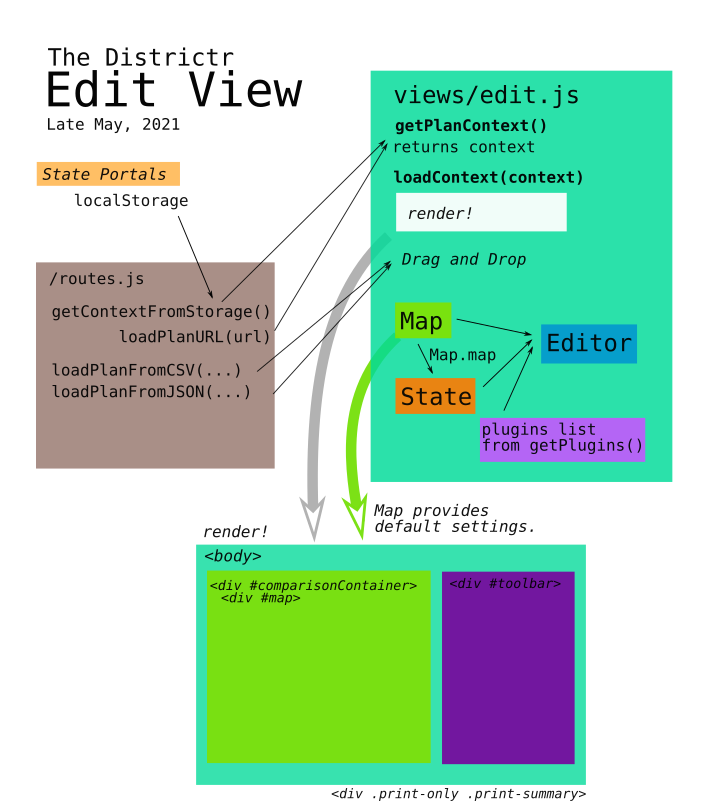
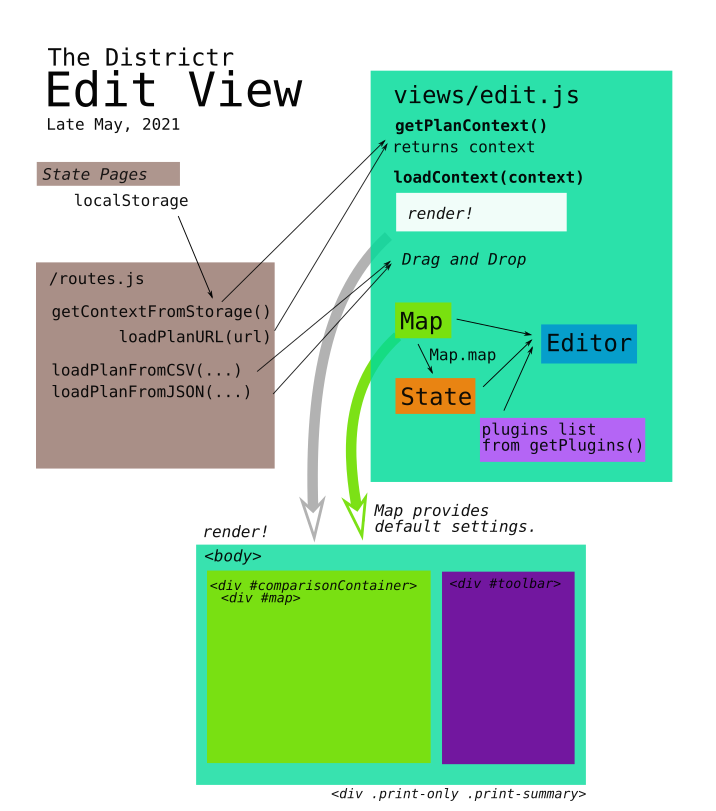
Makes changes recommended by mapmeld

Changed region(s): [[0.0307, 0.185, 0.2458, 0.2466]]

diff --git a/docs/07pages/districtrstatepages.md b/docs/07pages/districtrstatepages.md
@@ -1,4 +1,4 @@
-# Districtr State Portals
+# Districtr State Pages
 
 On the splash page, `index.html` users can use the US map rendered by
 the [`PlaceMap.js`] component to the many state pages districtr provides
@@ -6,11 +6,11 @@ as a portal for editing. Originally, MGGG only provided state
 information for those states where we had partners before rolling it out
 to all states in the nation. 
 
-This documentation covers portals that navigate to different states on
+This documentation covers pages that navigate to different states on
 the districtr website as opposed to custom portals for state commissions
 and other partners. 
 
-<img src="../pics/portalsbasics.png" width=75%>
+<img src="../pics/pagesbasics.png" width=75%>
 
 ## state.html
 
@@ -210,8 +210,8 @@ is given structure in the HTML. Maybe they should be placed closer together for
 clarity.
 
 [Return to Main](../README.md)
-- Previous: [The Index Landing Page](../07portals/index.md)
-- Next: [PlaceMap](../07portals/placemap.md)
+- Previous: [The Index Landing Page](../07pages/index.md)
+- Next: [PlaceMap](../07pages/placemap.md)
 
 
 [@jdeschler]: http://github.com/jdeschler
@@ -220,9 +220,9 @@ clarity.
 [@jenni-niels]: http://github.com/jenni-niels
 [@apizzimenti]: http://github.com/apizzimenti
 
-[`PlaceMap.js`]: ../07portals/placemap.md
+[`PlaceMap.js`]: ../07pages/placemap.md
 [`deploy/_redirects`]: ../09deployment/headersredirects.md
-[`stateLandingPage.js`]: ../07portals/districtrstateportals.md
+[`stateLandingPage.js`]: ../07pages/districtrstatepages.md
 
 [`src/views/stateLandingPage.js`]: ../../src/views/stateLandingPage.js
 [`/assets/data/landing_pages.json`]: ../../assets/data/landing_pages.json

diff --git a/docs/12team/contributions.md b/docs/12team/contributions.md
@@ -138,7 +138,7 @@ through February.
 Typically involved with the more research and Gerrychain side of the 
 MGGG laboratory, Anthony has returned to help in the Spring of 2021
 processing data for Wisconsin, Minnesota and the contribution of
-language for public-facing portals.
+language for public-facing custom portals.
 
 ### Lessons From the Demo
 
@@ -267,15 +267,15 @@ mongodb
 
 While JN, [@jenni-niels],  created the prototype local community page
 with landing page sections and content for Lowell, MA and Colorado. We
-would use their work during this time as the model for the default and
-custom portals we use today.
+would use their work during this time as the model for the default pages
+and custom portals we use today.
 
 ### Expanding Nationwide
 
 Throughout 2020, Nick worked on adding features and JN worked on
-modifying and updating state portals and pages. A rough timeline for
-the genesis of current features are as follows, with the knowledge that
-they are all being perfected over time.
+modifying and updating state pages. A rough timeline for the genesis of
+current features are as follows, with the knowledge that they are all
+being perfected over time.
 
 - January 2020
    - A legend for Demographic Overlays
@@ -332,7 +332,7 @@ assurance and testing.
 
 ### VRA
 
-Separate from their responsibilies creating state portals and assisting
+Separate from their responsibilies creating custom portals and assisting
 on the MGGG research side, [@jenni-niels] has been spearheading the
 ability to analyze districts using Voting Rights Act effectiveness. This
 began late December, 2020. To date, VRA is the first server function

diff --git a/docs/05landmarks/coi.md b/docs/05landmarks/coi.md
@@ -19,7 +19,7 @@ for both modes. The [`PopulationBalancePlugin`] and the
 
 [@maxhully] first built out a protype `Landmarks` feature in February of
 2019. By late April, the painting of communities of interest was
-achieved. It is thanks to [@jenni-niels] that state portals for marking
+achieved. It is thanks to [@jenni-niels] that state pages for marking
 communities of interest were generated later that year. They have
 maintained this page with [@mapmeld] through 2020 up to the present day.
 
@@ -154,7 +154,7 @@ draw overlapping communities.
 
 - The `PopBalancePlugin` and the `EvaluationPlugin` both have conditions
 on `community` but is not part of the plugins created in Community mode
-- Within State Portals, `onlyCommunityMode` used to exist for places
+- Within State Pages, `onlyCommunityMode` used to exist for places
 where we didn't have state-wide maps. This is now vestigial. 
 - While it's good to have `CommuntityBrush` extends `Brush`, `Brush`
 still has a few conditions that rest upon `community`, which are now
@@ -205,9 +205,9 @@ rarely and may not be needed.
 [`CoalitionPivotTable`]: ../06charts/datatable.md
 [`Subgroup`]: ../06charts/columnsetsparts.md
 
-[State Portal]: ../07portals/districtrstateportals.md
-[`PlacesList.js`]: ../07portals/placemap.md
-[`PlaceMap.js`]: ../07portals/placemap.md
+[State Portal]: ../07pages/districtrstatepages.md
+[`PlacesList.js`]: ../07pages/placemap.md
+[`PlaceMap.js`]: ../07pages/placemap.md
 
 [`routes.js`]: ../09deployment/routes.md
 [netlify lambda functions]: ../09deployment/mongolambdas.md

diff --git a/docs/10spatialabilities/placeexceptions.md b/docs/10spatialabilities/placeexceptions.md
@@ -11,7 +11,9 @@ mapbox-gl [`map`].
 - If the `borderId`, essentially `place`, is in Arizona, i.e., `yuma`,
 `nwaz`, `seaz`, `maricopa` and `phoenix`, a layer of Block Group is
 added.
-- If the `borderId` is `sacramento`, then a layer of Tracts are added. 
+- If the `borderId` is `sacramento`, then a layer of Tracts are added
+and is used to display block groups as a background to blocks in the
+editor. 
 
 In [`edit.js`], an extra function `getMapStyle(...)` is passed when
 creating the [`MapState`]. District maps are plotted in map style
@@ -72,15 +74,6 @@ not used anywhere for any place as the PythonAnywhere interface was
 rewritten later
 - A custom warning is shown in `ContiguitySection` for Ohio and 
 Wisconsin
-
-## Exceptions in Netlify Lambdas and the Server
-
-Certain states "are not included in PostGIS, according to
-planContiguity.js". Thus, in `planContiguity.js`, these exceptions are
-for...
-- states AK, CO, GA, HI, IA, MA, MD, MI, MN, MS, NC, NM, OH, OK,
-OR, PA, RI, TX, UT, VA, VT and WI
-- places Chicago, `ma_02` towns, and Providence, RI. 
 
 Any time PythonAnywhere is queried or CSV plans are saved or retrieved,
 an exception must be made from the default separator `,` when working

diff --git a/docs/11suggestions/clarity.md b/docs/11suggestions/clarity.md
@@ -148,7 +148,7 @@ populate this text?
 - In `SelectBoxes`, defined in [Demographics Table], "Comapare" and
 "with" are contained in an Array, but "and" is a special case. Should
 they just be in one array?
-- In the [State Portals], the population of districting and community
+- In the [state pages], the population of districting and community
 cards occurs later than when it is given structure in the HTML. Maybe
 they should be placed closer together for clarity.
 
@@ -194,9 +194,9 @@ they should be placed closer together for clarity.
 [`DemographicsTable`]: ../06charts/demographicstable.md
 [`DatasetInfo`]: ../06charts/datasetinfo.md
 
-[`districtingOptions`]: ../07portals/districtrstateportals.md
-[State political unit]: ../07portals/districtrstateportals.md
-[State Portals]: ../07portals/districtrstateportals.md
+[`districtingOptions`]: ../07pages/districtrstatepages.md
+[State political unit]: ../07pages/districtrstatepages.md
+[state pages]: ../07pages/districtrstatepages.md
 
 [Global Objects]: ../09deployment/globals.md
 [Routes]: ../09deployment/routes.md

diff --git a/docs/09deployment/mongolambdas.md b/docs/09deployment/mongolambdas.md
@@ -79,7 +79,7 @@ older plans results in the creation of a new plan.
 
 The original way contiguity was calculated for plans was through
 `planContiguity.js`. Through a hard-coded filter, plans were sent to a
-`https://mggg-states.subzero.cloud` function.
+`https://mggg-states.subzero.cloud` function. This is deprecated.
 
 Function `planPreview.js` is similar to `planRead.js` but provides a
 screenshot together with the full plan and the simple id. 
@@ -116,16 +116,9 @@ The `Sequence` object is provided by `sequenceModel.js` and helps
 
 ### Suggestions
 
-`db` from `server.js` is imported but not used in the following files.
-Perhaps it is important in creating a connection, so no explicit use is
-needed. However, it is never used excplicitly in any case it is
-imported including... 
-- `eventRead.js`
-- `planCreate.js`
-- `planPreview.js`
-- `planRead.js`
-- `planText.js`
-- `planUpdate.js`
+- `db` from `server.js` is imported but not used in the following files
+but is required for creating a MongoDB connection.
+- planContiguity.js is deprecated. 
 
 # #
 

diff --git a/docs/11suggestions/deprecations.md b/docs/11suggestions/deprecations.md
@@ -105,6 +105,11 @@ While most of the experimental swipemap features have been removed from
 production level districtr, there are still features of swiping in
 [`Map`] functions.
 
+### PlanContiguity.js
+
+planContiguity.js is no longer used for determining contiguity and
+should be removed.
+
 ## The Unused
 
 Somtimes, functions are written based off of older functions, patterns
@@ -215,10 +220,10 @@ redundant. What is the advantage of this structure?
 [`CommunityPlugin`]: ../05landmarks/communityplugin.md
 [`Landmarks`]: ../05landmarks/landmarksclass.md
 
-[`PlaceMap`]: ../07portals/placemap.md
-[`PlacesList`]: ../07portals/placemap.md
-[`StateLandingPage.js`]: ../07portals/districtrstateportals.md
-[`StateLandingPage`]: ../07portals/districtrstateportals.md
+[`PlaceMap`]: ../07pages/placemap.md
+[`PlacesList`]: ../07pages/placemap.md
+[`StateLandingPage.js`]: ../07pages/districtrstatepages.md
+[`StateLandingPage`]: ../07pages/districtrstatepages.md
 
 [`CoalitionPivotTable`]: ../06charts/datatable.md
 [`EvaluationPlugin`]: ../06charts/evaluationplugin.md

diff --git a/docs/11suggestions/organizing.md b/docs/11suggestions/organizing.md
@@ -221,7 +221,7 @@ deanonymized and turned into helper functions?
 own helper function in `evaluation-plugin.js`. 
 - In the [EvaluationPlugin], initial `isOpen` states can be delegated to
 a helper function.
-- When rendering [State Portals], so many anonymous functions are used
+- When rendering [state pages], so many anonymous functions are used
 to render `html`. Perhaps a few longer ones can be separated out as
 helper functions
 - In [routes.js], so much occurs when `loadPlanFromJSON(...)` and
@@ -283,8 +283,8 @@ helper functions could be  written to help clarity.
 [`Evaluation Plugin`]: ../06charts/evaluationplugin.md
 [`DataSetInfo`]: ../06charts/datasetinfo.md
 
-[landing pages]: ../07portals/districtrstateportals.md
-[State Portals]: ../07portals/districtrstateportals.md
+[landing pages]: ../07pages/districtrstatepages.md
+[state pages]: ../07pages/districtrstatepages.md
 
 [`routes.js`]: ../09deployment/routes.md
 

diff --git a/docs/09deployment/routes.md b/docs/09deployment/routes.md
@@ -23,7 +23,7 @@ throw an error.
 
 ### Local storage and starting a New Plan
 
-New plan are often loaded from the [state portals], which collects the
+New plan are often loaded from the [state pages], which collects the
 following information and saves them for use with
 `savePlanToStorage(...)`. This information, saved in local storage is
 loaded within the parameters of `startNewPlan(...)` all eventually 
@@ -150,7 +150,7 @@ difference between using `serialized` and the `state` object directly?
 [`mockApi`]: ../05landmarks/findplaces.md
 [`COI`]: ../05landmarks/coi.md
 
-[state portals]: ../07portals/districtrstateportals.md
+[state pages]: ../07pages/districtrstatepages.md
 
 [`deploy`]: ../09deployment/headersredirects.md
 [`lambda`]: ../09deployment/mongolambdas.md

diff --git a/docs/07pages/index.md b/docs/07pages/index.md
@@ -83,8 +83,8 @@ which makes `clearQueriesFromURL()` less important.
 # #
 
 [Return to Main](../README.md)
-- Next: [Districtr State Portals](../07portals/districtrstateportals.md)
-- [PlaceMap](../07portals/placemap.md)
+- Next: [Districtr State Pages](../07pages/districtrstatepages.md)
+- [PlaceMap](../07pages/placemap.md)
 
 
 [@maxhully]: http://github.com/maxhully
@@ -97,8 +97,8 @@ which makes `clearQueriesFromURL()` less important.
 [districtr.org]: http://districtr.org
 [`/src/views/index.js`]: ../../src/views/index.js
 
-[`PlaceMap`]: ../07portals/placemap.md
-[state landing pages]: ../07portals/districtrstateportals.md
+[`PlaceMap`]: ../07pages/placemap.md
+[state landing pages]: ../07pages/districtrstatepages.md
 
 [index.html]: ../../html/index.html
 

diff --git a/docs/09deployment/headersredirects.md b/docs/09deployment/headersredirects.md
@@ -57,7 +57,7 @@ URL type `/community/al/*` directs to `/alabama?mode=coi` which informs
 `alabama.html` through `StateLandingPages.js` to display community of
 interest options.
 
-## Various Portals
+## Specific Places
 
 We can also pass stored plans to `edit.html`/`edit.js` through the URL.
 For instance, varieties of `/lowell-districts` and
@@ -66,7 +66,8 @@ For instance, varieties of `/lowell-districts` and
 
 # Typos
 
-Finally, the following are set to be redirected.
+Finally, the following are set to be redirected. They exist to provide
+backwards compatibility with old state URLs. 
 
 - `/new/*` to `/new`
 - `/community/*` to `/community`

diff --git a/docs/README.md b/docs/README.md
@@ -109,14 +109,14 @@ following model.
 - [Dataset Info](./06charts/datasetinfo.md)
 - [A Full Example: VRA](./06charts/vra.md)
 
-## 7. Index and State Portals
+## 7. Index and State Pages
 
 <img src="./pics/portalsbasics.png" width=75%>
 
 
-- [The Index Landing Page](./07portals/index.md)
-- [Districtr State Portals](./07portals/districtrstateportals.md)
-- [PlaceMap](./07portals/placemap.md)
+- [The Index Landing Page](./07pages/index.md)
+- [Districtr State Pages](./07pages/districtrstatepages.md)
+- [PlaceMap](./07pages/placemap.md)
 
 ## 8. Events and Tags
 
